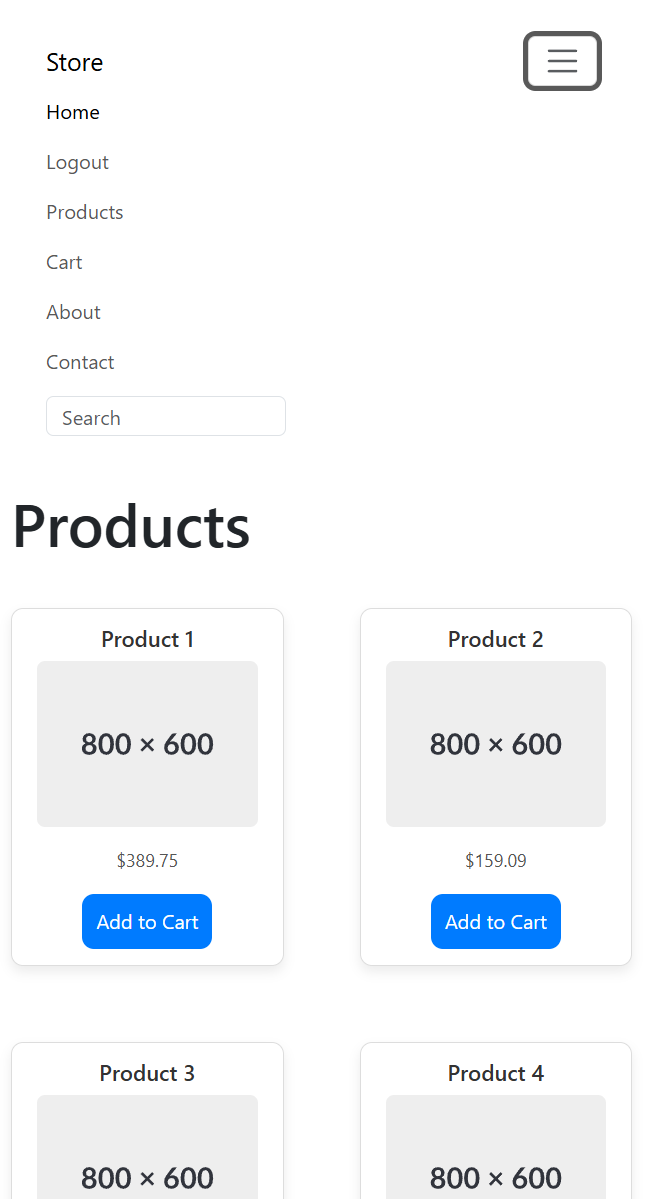
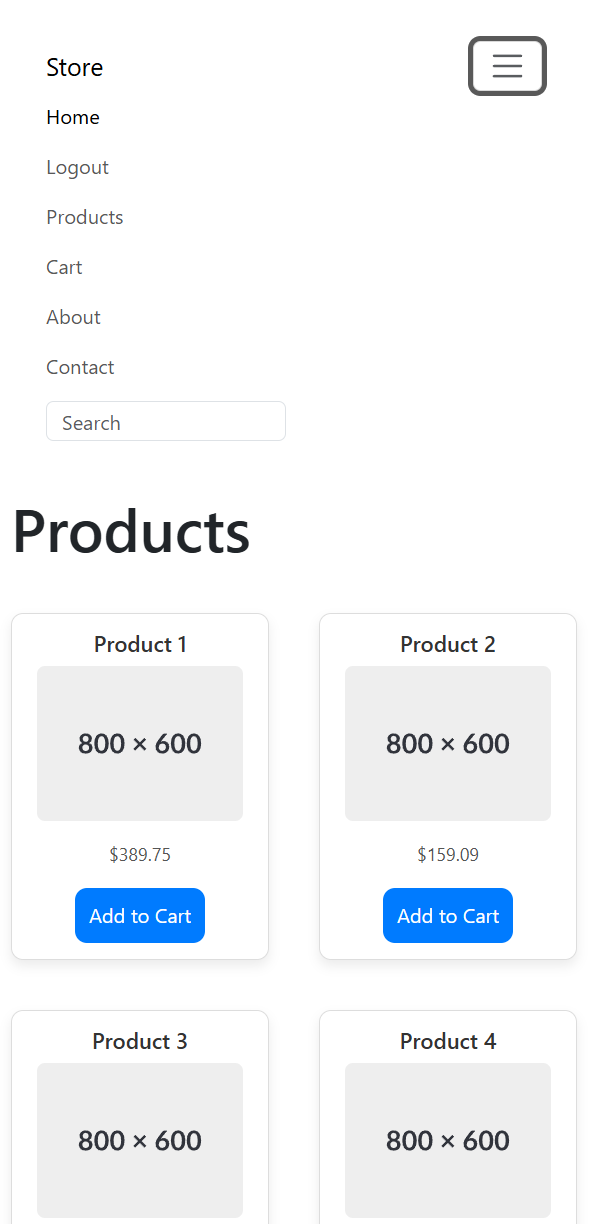
update images and improve CSS styling

diff --git a/static/css/checkout.css b/static/css/checkout.css
@@ -1,26 +1,33 @@
 .cart-review {
-    display: flex;
-    justify-content: center;
-    align-items: center;
-    width: 70%;
+    width: 100%;
+    max-width: 37.5rem;
     margin: 0 auto;
+    box-sizing: border-box;
 }
 
 .checkout-table {
     width: 100%;
-    max-width: 50%;
     border-collapse: collapse;
     margin-bottom: 2rem;
+    table-layout: auto;
 }
-
 
 .checkout-table th,
 .checkout-table td {
-    padding: 0.75rem;
+    padding: 0.75rem 1rem;
     text-align: left;
     font-size: clamp(0.9rem, 2.5vw, 1.2rem);
-    text-wrap: nowrap;
+    white-space: normal;
+    word-break: break-word;
+    vertical-align: top;
+    text-align: center;
 }
+
+.checkout-table td:first-child,
+.checkout-table th:first-child {
+    min-width: 6rem;
+}
+
 
 .total-price {
     text-align: center;

diff --git a/static/css/product-grid.css b/static/css/product-grid.css
@@ -1,7 +1,7 @@
 .product-grid {
     display: grid;
     grid-template-columns: repeat(auto-fill, minmax(clamp(12rem, 12vw, 16rem), 1fr));
-    gap: 3.8rem;
+    gap: clamp(1rem, 2vw, 2rem);
     margin-top: 2.5rem;
     padding: 0 1rem;
 }

diff --git a/static/css/product-detail.css b/static/css/product-detail.css
@@ -3,6 +3,7 @@
     flex-direction: column;
     justify-content: center;
     align-items: center;
+    margin-bottom: 3rem;
 }
 
 #quantity-form {

diff --git a/static/css/home.css b/static/css/home.css
@@ -5,4 +5,5 @@ h1 {
     margin-top: 8.5rem;
     font-size: clamp(1.75rem, 5vw, 3.75rem) !important;
     white-space: nowrap;
+    
 }
